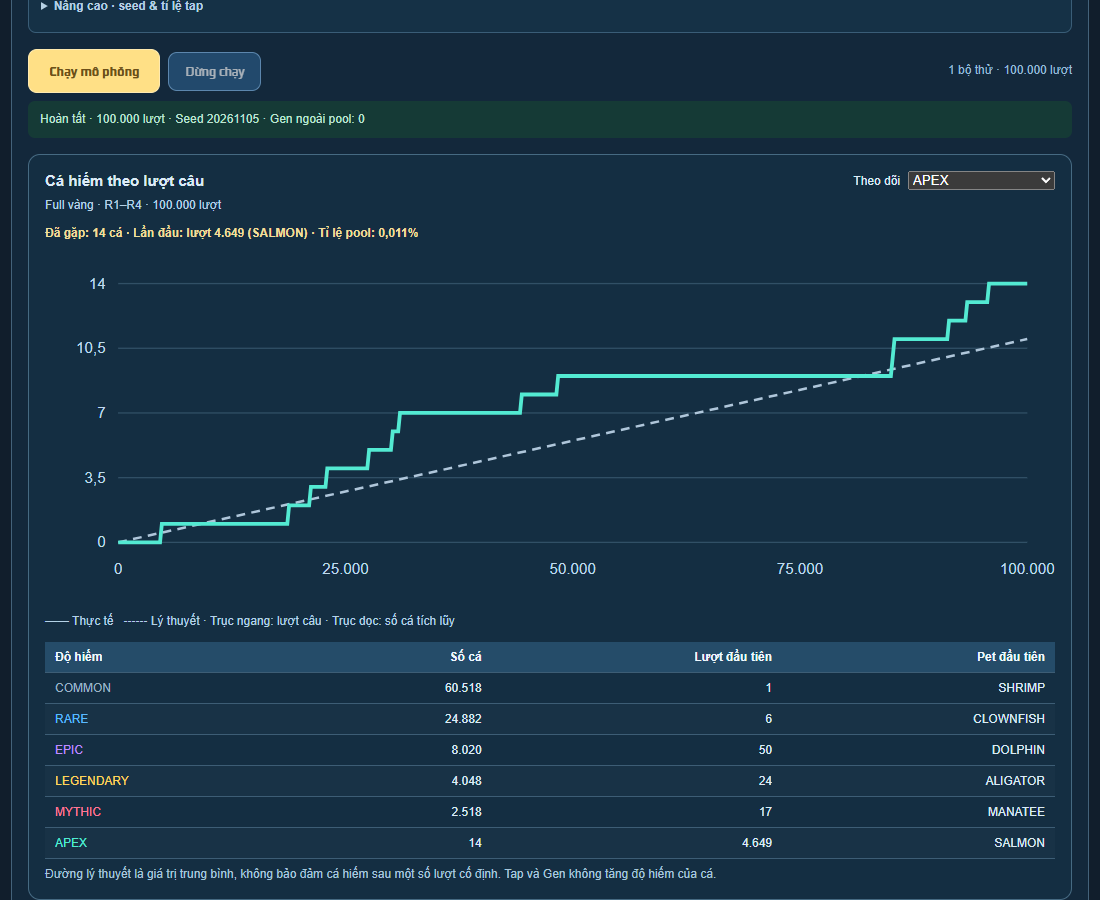
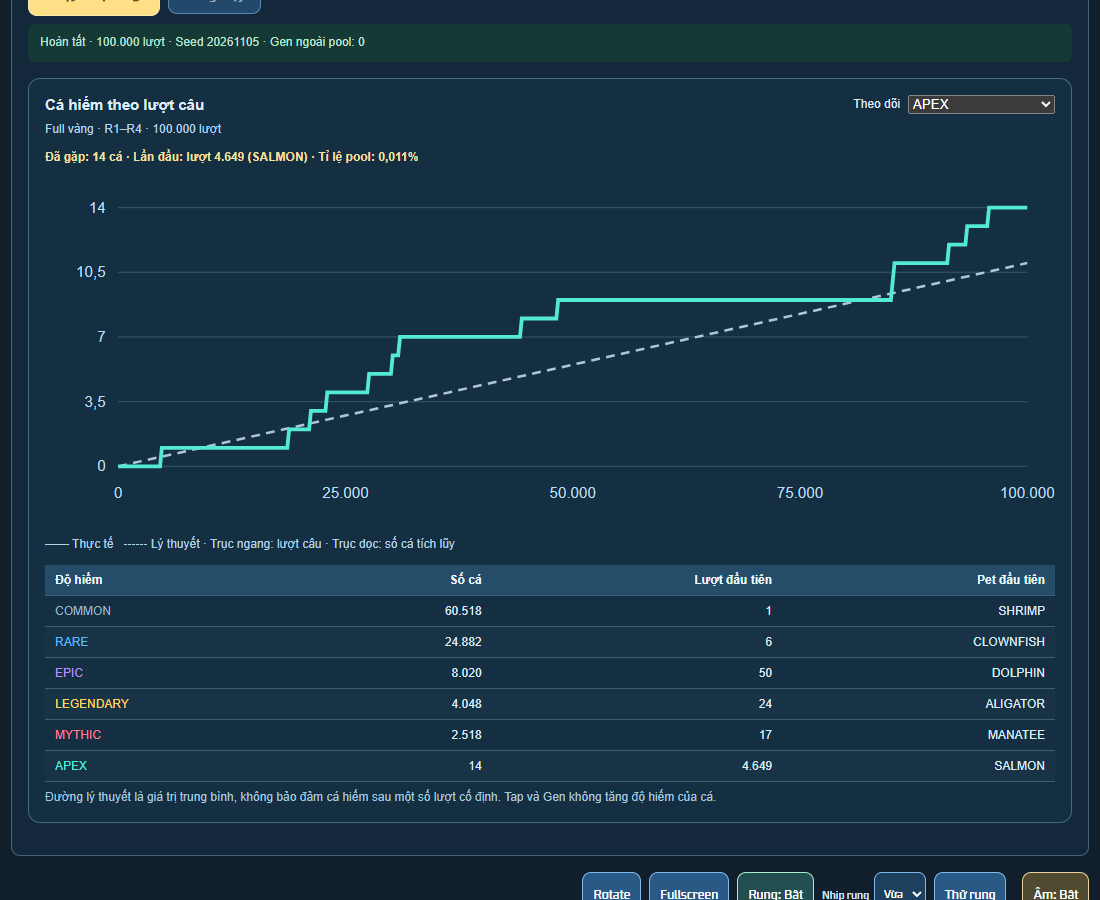
a

diff --git a/assets/fishing-chart.js b/assets/fishing-chart.js
@@ -3,23 +3,33 @@
 const colors={COMMON:'#9db4c5',RARE:'#59baff',EPIC:'#bf8cff',LEGENDARY:'#ffd45a',MYTHIC:'#ff7897',APEX:'#53ead2'},rarities=Object.keys(colors);
 window.FishingChart=function(host){
  host.className='fishingChart';host.hidden=true;
- host.innerHTML='<div class="chartHeading"><h3>Cá hiếm theo lượt câu</h3><label>Theo dõi <select><option value="LEGENDARY">LEGENDARY trở lên</option><option value="RARE">RARE trở lên</option><option value="EPIC">EPIC trở lên</option><option value="MYTHIC">MYTHIC trở lên</option><option value="APEX">APEX</option></select></label></div><p class="chartRun"></p><div class="chartMetrics"></div><svg viewBox="0 0 800 280" role="img" aria-label="Số cá hiếm tích lũy theo số lượt câu"></svg><p class="chartLegend">━━ Thực tế &nbsp; ┄┄ Lý thuyết · Trục ngang: lượt câu · Trục dọc: số cá tích lũy</p><div class="genTableScroll chartFirst"></div><p>Đường lý thuyết là giá trị trung bình, không bảo đảm cá hiếm sau một số lượt cố định. Tap và Gen không tăng độ hiếm của cá.</p>';
- let report;const select=host.querySelector('select'),fmt=n=>n.toLocaleString('vi-VN');
+ host.innerHTML='<div class="chartHeading"><h3>Kết quả theo lượt câu</h3><label>Biểu đồ <select class="chartMode"><option value="pet">Pet</option><option value="gen">Gen</option><option value="combo">Pet + Gen</option></select></label><label class="chartPetLabel">Pet <select class="chartPet"></select></label><label class="chartGenLabel">Gen <select class="chartGen"></select></label></div><p class="chartRun"></p><div class="chartMetrics"></div><svg viewBox="0 0 800 280" role="img" aria-label="Số kết quả tích lũy theo lượt câu"></svg><p class="chartLegend">━━ Thực tế &nbsp; ┄┄ Lý thuyết · Trục ngang: lượt câu · Trục dọc: số kết quả tích lũy</p><div class="genTableScroll chartFirst"></div><p>Thống kê đủ mọi lượt, kể cả sau giới hạn nhật ký. Đường lý thuyết là trung bình, không bảo đảm thời điểm xuất hiện. Tap không tăng độ hiếm pet.</p>';
+ const $=s=>host.querySelector(s),mode=$('.chartMode'),pet=$('.chartPet'),gen=$('.chartGen'),fmt=n=>n.toLocaleString('vi-VN');let report;
+ function option(select,value,label){const o=document.createElement('option');o.value=value;o.textContent=label;select.appendChild(o);}
+ option(pet,'all','Tất cả pet');for(const k of rarities.slice(1))option(pet,'rarity:'+k,k+' trở lên');for(const p of FishingConfig.pets)option(pet,String(p.id),p.name);pet.value='rarity:LEGENDARY';
+ function genOptions(){const prev=gen.value;gen.replaceChildren();option(gen,'all','Bất kỳ Gen');if(mode.value==='combo')option(gen,'none','Không Gen');for(const g of GenConfig.catalog)option(gen,g.id,g.name);gen.value=[...gen.options].some(o=>o.value===prev)?prev:'all';}
+ genOptions();
  function render(r){
   if(!r?.iterations)return;report=r;host.hidden=false;
-  const allowed=rarities.slice(rarities.indexOf(select.value)),sum=c=>allowed.reduce((s,k)=>s+(c[k]||0),0),count=sum(r.rarityCounts),profile=FishingPool.profile(r.rebirth),chance=FishingConfig.pets.filter(p=>allowed.includes(p.rarity)).reduce((s,p)=>s+p.weights[profile.index],0)/profile.total;
-  const first=allowed.map(k=>r.rarityFirst[k]).filter(Boolean).sort((a,b)=>a.cast-b.cast)[0];
-  host.querySelector('.chartRun').textContent=r.name+' · '+r.band+' · '+fmt(r.iterations)+' lượt';
-  host.querySelector('.chartMetrics').textContent='Đã gặp: '+fmt(count)+' cá · Lần đầu: '+(first?'lượt '+fmt(first.cast)+' ('+first.pet+')':'chưa xuất hiện')+' · Tỉ lệ pool: '+(chance*100).toLocaleString('vi-VN',{maximumFractionDigits:4})+'%';
-  const points=[...r.timeline];if(points.at(-1).cast!==r.iterations)points.push({cast:r.iterations,counts:r.rarityCounts});
-  const max=Math.max(1,count,r.iterations*chance),x=n=>58+n/r.iterations*720,y=n=>230-n/max*205;
-  let svg='';for(let i=0;i<=4;i++){const v=max*i/4;svg+='<line x1="58" y1="'+y(v)+'" x2="778" y2="'+y(v)+'" stroke="#315066"/><text x="48" y="'+(y(v)+4)+'" text-anchor="end">'+fmt(Math.round(v*10)/10)+'</text>';const n=Math.round(r.iterations*i/4);svg+='<text x="'+x(n)+'" y="255" text-anchor="middle">'+fmt(n)+'</text>';}
-  svg+='<path d="M58 230 L778 '+y(r.iterations*chance)+'" fill="none" stroke="#afc6da" stroke-dasharray="7 5" stroke-width="2"/><polyline points="'+points.map(p=>x(p.cast)+','+y(sum(p.counts))).join(' ')+'" fill="none" stroke="'+colors[select.value]+'" stroke-width="3"/>';
-  host.querySelector('svg').innerHTML=svg;
-  const table=document.createElement('table');table.innerHTML='<thead><tr><th>Độ hiếm</th><th>Số cá</th><th>Lượt đầu tiên</th><th>Pet đầu tiên</th></tr></thead>';
-  const body=table.createTBody();for(const k of rarities){const row=body.insertRow();for(const val of [k,fmt(r.rarityCounts[k]||0),r.rarityFirst[k]?fmt(r.rarityFirst[k].cast):'Chưa gặp',r.rarityFirst[k]?.pet||'—'])row.insertCell().textContent=val;row.cells[0].style.color=colors[k];}
-  host.querySelector('.chartFirst').replaceChildren(table);
+  $('.chartPetLabel').hidden=mode.value==='gen';$('.chartGenLabel').hidden=mode.value==='pet';
+  const allowed=pet.value.startsWith('rarity:')?rarities.slice(rarities.indexOf(pet.value.slice(7))):rarities;
+  const pets=FishingConfig.pets.filter(p=>pet.value==='all'||pet.value.startsWith('rarity:')&&allowed.includes(p.rarity)||String(p.id)===pet.value),ids=new Set(pets.map(p=>String(p.id))),profile=FishingPool.profile(r.rebirth),petChance=pets.reduce((s,p)=>s+p.weights[profile.index],0)/profile.total;
+  const genChance=gen.value==='none'?r.expected.none:gen.value==='all'?1-r.expected.none:r.expected.gen[gen.value]||0;
+  const chance=mode.value==='pet'?petChance:mode.value==='gen'?genChance:petChance*genChance;
+  const matches=c=>ids.has(String(c.petId))&&(gen.value==='none'?!c.genIds.length:gen.value==='all'?c.genIds.length>0:c.genIds.includes(gen.value));
+  const combos=Object.entries(r.combinations).filter(([,c])=>matches(c));
+  const sum=s=>mode.value==='pet'?pets.reduce((n,p)=>n+(s.pets?.[p.id]||0),0):mode.value==='gen'?(gen.value==='all'?Object.values(s.gens||{}).reduce((a,b)=>a+b,0):s.gens?.[gen.value]||0):combos.reduce((n,[k])=>n+(s.combos?.[k]||0),0);
+  const endpoint={cast:r.iterations,pets:Object.fromEntries(Object.entries(r.petCounts).map(([k,v])=>[k,v.count])),gens:r.counts,combos:Object.fromEntries(Object.entries(r.combinations).map(([k,v])=>[k,v.count]))},count=sum(endpoint);
+  const firsts=mode.value==='pet'?pets.map(p=>r.petCounts[p.id]?.firstCast):mode.value==='gen'?(gen.value==='all'?Object.values(r.genFirst):[r.genFirst[gen.value]]):combos.map(([,c])=>c.firstCast),first=Math.min(...firsts.filter(Boolean));
+  $('.chartRun').textContent=r.name+' · '+r.band+' · '+fmt(r.iterations)+' lượt';
+  $('.chartMetrics').textContent='Đã gặp: '+fmt(count)+' · Lần đầu: '+(Number.isFinite(first)?'lượt '+fmt(first):'chưa xuất hiện')+' · Lý thuyết / lượt: '+(chance*100).toLocaleString('vi-VN',{maximumFractionDigits:6})+'%';
+  const points=[...r.timeline];if(points.at(-1).cast!==r.iterations)points.push(endpoint);
+  const max=Math.max(1,count,r.iterations*chance),x=n=>58+n/r.iterations*720,y=n=>230-n/max*205;let svg='';
+  for(let i=0;i<=4;i++){const v=max*i/4,n=Math.round(r.iterations*i/4);svg+='<line x1="58" y1="'+y(v)+'" x2="778" y2="'+y(v)+'" stroke="#315066"/><text x="48" y="'+(y(v)+4)+'" text-anchor="end">'+fmt(Math.round(v*10)/10)+'</text><text x="'+x(n)+'" y="255" text-anchor="middle">'+fmt(n)+'</text>';}
+  svg+='<path d="M58 230 L778 '+y(r.iterations*chance)+'" fill="none" stroke="#afc6da" stroke-dasharray="7 5" stroke-width="2"/><polyline points="'+points.map(p=>x(p.cast)+','+y(sum(p))).join(' ')+'" fill="none" stroke="'+(mode.value==='pet'?colors[pet.value.slice(7)]||'#59baff':mode.value==='gen'?'#bf8cff':'#53ead2')+'" stroke-width="3"/>'; $('svg').innerHTML=svg;
+  const rows=mode.value==='pet'?pets.map(p=>[p.name,p.rarity,r.petCounts[p.id]?.count||0,r.petCounts[p.id]?.firstCast]):mode.value==='gen'?GenConfig.catalog.filter(g=>gen.value==='all'||g.id===gen.value).map(g=>[g.name,g.tier,r.counts[g.id]||0,r.genFirst[g.id]]):combos.map(([,c])=>[c.pet,c.genIds.map(id=>GenConfig.catalog.find(g=>g.id===id)?.name||id).join(' + ')||'Không Gen',c.count,c.firstCast]);
+  rows.sort((a,b)=>b[2]-a[2]);const table=document.createElement('table');table.innerHTML='<thead><tr><th>'+(mode.value==='gen'?'Gen':'Pet')+'</th><th>'+(mode.value==='combo'?'Gen':'Độ hiếm')+'</th><th>Số lần</th><th>Lượt đầu tiên</th></tr></thead>';const body=table.createTBody();for(const data of rows){const row=body.insertRow();for(const v of [data[0],data[1],fmt(data[2]),data[3]?fmt(data[3]):'Chưa gặp'])row.insertCell().textContent=v;}$('.chartFirst').replaceChildren(table);
  }
- select.addEventListener('change',()=>render(report));return {render,reset(){host.hidden=true;report=null;}};
+ mode.addEventListener('change',()=>{genOptions();render(report);});pet.addEventListener('change',()=>render(report));gen.addEventListener('change',()=>render(report));return {render,reset(){host.hidden=true;report=null;}};
 };
 })();

diff --git a/index.html b/index.html
@@ -247,13 +247,16 @@ html[data-smooth] #scene .today{display:none!important}#scene .taskGuideButton{w
  </div>
  </div>
 </div>
-</main><link rel="stylesheet" href="assets/fishing.css"><link rel="stylesheet" href="assets/fishing-revival.css?v=gen-progression-fish-original-1"><script src="assets/game-audio.js"></script><script src="assets/fishing-config.js?v=gen-progression-fish-original-1"></script><script src="assets/fishing-pool.js?v=gen-progression-fish-original-1"></script><script src="assets/gen-config.js?v=gen-progression-fish-original-1"></script><script src="assets/gen-core.js?v=gen-progression-fish-original-1"></script><script src="assets/fishing-rewards.js?v=gen-progression-fish-original-1"></script><script src="assets/fishing.js?v=gen-progression-fish-original-1"></script><script src="assets/fishing-chart.js?v=gen-progression-fish-original-1"></script><script src="assets/gen-debug.js?v=gen-progression-fish-original-1"></script><script src="assets/debug-navigation.js?v=gen-progression-fish-original-1"></script><script src="assets/fishing-pools.js?v=gen-progression-fish-original-1"></script>
+</main><link rel="stylesheet" href="assets/fishing.css"><link rel="stylesheet" href="assets/fishing-revival.css?v=chart-pet-gen-combo-2"><script src="assets/game-audio.js"></script><script src="assets/fishing-config.js?v=chart-pet-gen-combo-2"></script><script src="assets/fishing-pool.js?v=chart-pet-gen-combo-2"></script><script src="assets/gen-config.js?v=chart-pet-gen-combo-2"></script><script src="assets/gen-core.js?v=chart-pet-gen-combo-2"></script><script src="assets/fishing-rewards.js?v=chart-pet-gen-combo-2"></script><script src="assets/fishing.js?v=chart-pet-gen-combo-2"></script><script src="assets/fishing-chart.js?v=chart-pet-gen-combo-2"></script><script src="assets/gen-debug.js?v=chart-pet-gen-combo-2"></script><script src="assets/debug-navigation.js?v=results-original-2"></script><script src="assets/fishing-pools.js?v=chart-pet-gen-combo-2"></script>
 <script src="assets/revival-gdd-engine.js"></script><script src="assets/web-responsive.js"></script>
 <script>document.querySelectorAll('.prototypeTabs button').forEach(function(btn){btn.addEventListener('click',function(){document.querySelectorAll('.prototypeTabs button').forEach(function(b){b.classList.remove('active');b.setAttribute('aria-selected','false')});document.querySelectorAll('.prototypePane').forEach(function(p){p.classList.remove('active')});btn.classList.add('active');btn.setAttribute('aria-selected','true');document.getElementById(btn.dataset.tab).classList.add('active');document.querySelector('main>nav').style.display=btn.dataset.tab==='tab-player-reward'?'':'none'})})
 document.querySelectorAll('.lbSubBtn').forEach(function(btn){btn.addEventListener('click',function(){var pane=btn.closest('.prototypePane');pane.querySelectorAll('.lbSubBtn').forEach(function(b){b.classList.remove('active');b.setAttribute('aria-selected','false')});pane.querySelectorAll('.lbSubPane').forEach(function(p){p.classList.remove('active')});btn.classList.add('active');btn.setAttribute('aria-selected','true');document.getElementById(btn.dataset.sub).classList.add('active')})});
 
 </script><script src="assets/pity-concepts.js"></script><script src="assets/dig-pity.js"></script><script src="assets/secret-luck.js"></script>
 </html>
+
+
+
 
 
 

diff --git a/assets/gen-core.js b/assets/gen-core.js
@@ -70,7 +70,7 @@
     const rebirth=options.rebirth||1,full=!!options.fishing,logLimit=options.logLimit??10000;
     const random=seeded(seed),counts=Object.fromEntries(config.catalog.map(gen=>[gen.id,0]));
     const result={scenario:scenario.id,runId:scenario.id+'-r'+rebirth,name:scenario.name,seed,rebirth,band:profile(rebirth).label,configVersion:config.version,fishConfigVersion:global.FishingPool?.config.version||null,iterations:0,none:0,one:0,two:0,counts,expected:expectation(scenario,rebirth),petCounts:{},combinations:{},records:[],logLimit};
-    result.rarityCounts={};result.rarityFirst={};result.timeline=[{cast:0,counts:{}}];
+    result.rarityCounts={};result.rarityFirst={};result.genFirst={};result.timeline=[{cast:0,counts:{},pets:{},gens:{},combos:{}}];
     const chartEvery=Math.max(1,options.chartEvery||1000);
     const fixed=scenario.pattern?points(scenario.pattern):null;
     return {result,step(amount){
@@ -86,12 +86,12 @@
           const cast=result.iterations+i+1;
           result.rarityCounts[pet.rarity]=(result.rarityCounts[pet.rarity]||0)+1;
           if(!result.rarityFirst[pet.rarity])result.rarityFirst[pet.rarity]={cast,pet:pet.name};
-          if(cast%chartEvery===0)result.timeline.push({cast,counts:{...result.rarityCounts}});
-          const entry=result.petCounts[pet.id]||(result.petCounts[pet.id]={id:pet.id,name:pet.name,rarity:pet.rarity,count:0,none:0,one:0,two:0,gens:{}});
+          const entry=result.petCounts[pet.id]||(result.petCounts[pet.id]={id:pet.id,name:pet.name,rarity:pet.rarity,firstCast:cast,count:0,none:0,one:0,two:0,gens:{}});
           entry.count++;entry[rewards.length===0?'none':rewards.length===1?'one':'two']++;
-          for(const gen of rewards)entry.gens[gen.id]=(entry.gens[gen.id]||0)+1;
+          for(const gen of rewards){entry.gens[gen.id]=(entry.gens[gen.id]||0)+1;if(!result.genFirst[gen.id])result.genFirst[gen.id]=cast;}
           const ids=rewards.map(g=>g.id).sort(),key=pet.id+'|'+ids.join('+');
-          const combo=result.combinations[key]||(result.combinations[key]={petId:pet.id,pet:pet.name,rarity:pet.rarity,genIds:ids,count:0});combo.count++;
+          const combo=result.combinations[key]||(result.combinations[key]={petId:pet.id,pet:pet.name,rarity:pet.rarity,genIds:ids,firstCast:cast,count:0});combo.count++;
+          if(cast%chartEvery===0)result.timeline.push({cast,counts:{...result.rarityCounts},pets:Object.fromEntries(Object.entries(result.petCounts).map(([k,v])=>[k,v.count])),gens:{...counts},combos:Object.fromEntries(Object.entries(result.combinations).map(([k,v])=>[k,v.count]))});
           if(result.records.length<logLimit)result.records.push({cast:result.iterations+i+1,rebirth,pattern:[...pattern],points:score,petId:pet.id,pet:pet.name,rarity:pet.rarity,genIds:rewards.map(g=>g.id),claimCents:pet.claimCents});
         }
       }
